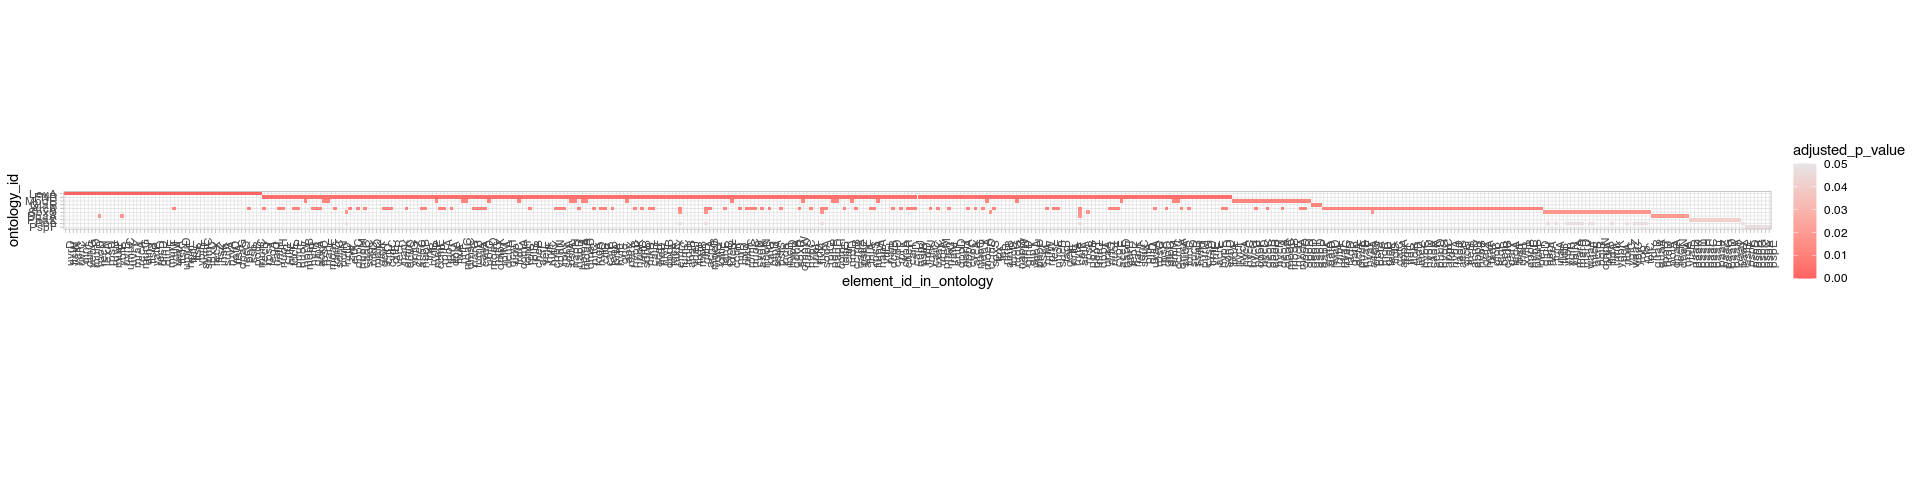
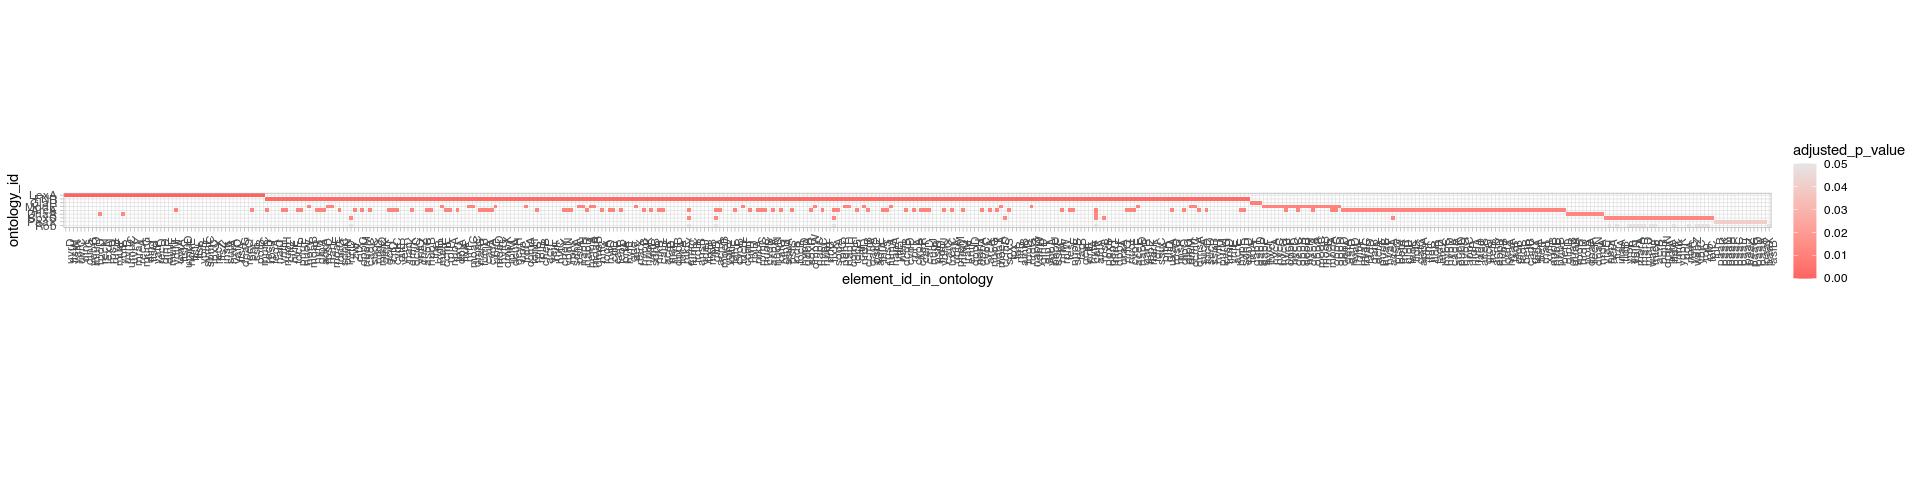
README update

Changed region(s): [[0.0, 0.375, 0.9375, 0.5938]]

diff --git a/README.md b/README.md
@@ -456,14 +456,14 @@ ora_results %>%
 |:------------|:--------------|-------------------------------:|----------------------------------:|----------:|----------:|
 | FNR         | FNR           |                             26 |                               259 | 0.0000003 | 0.0000000 |
 | LexA        | LexA          |                             14 |                                53 | 0.0000000 | 0.0000000 |
-| SoxS        | SoxS          |                              7 |                                37 | 0.0001615 | 0.0029333 |
-| Rob         | Rob           |                              5 |                                21 | 0.0004717 | 0.0048000 |
-| DnaA        | DnaA          |                              4 |                                13 | 0.0006281 | 0.0049167 |
-| FadR        | FadR          |                              5 |                                20 | 0.0003692 | 0.0051000 |
-| NsrR        | NsrR          |                              8 |                                64 | 0.0010478 | 0.0068429 |
-| ArcA        | ArcA          |                             12 |                               148 | 0.0032001 | 0.0202250 |
-| IHF         | IHF           |                             14 |                               205 | 0.0070758 | 0.0452500 |
-| MarA        | MarA          |                              5 |                                37 | 0.0066068 | 0.0477444 |
+| SoxS        | SoxS          |                              7 |                                37 | 0.0001615 | 0.0025667 |
+| DnaA        | DnaA          |                              4 |                                13 | 0.0006281 | 0.0048167 |
+| Rob         | Rob           |                              5 |                                21 | 0.0004717 | 0.0049400 |
+| FadR        | FadR          |                              5 |                                20 | 0.0003692 | 0.0052000 |
+| NsrR        | NsrR          |                              8 |                                64 | 0.0010478 | 0.0068857 |
+| ArcA        | ArcA          |                             12 |                               148 | 0.0032001 | 0.0203875 |
+| IHF         | IHF           |                             14 |                               205 | 0.0070758 | 0.0449400 |
+| MarA        | MarA          |                              5 |                                37 | 0.0066068 | 0.0473000 |
 
 #### Visualizing the ORA Result
 
@@ -661,7 +661,7 @@ gsea_results %>%
   filter(adjusted_p_value < 0.05) %>% 
   # the number of such rows
   nrow()
-#> [1] 10
+#> [1] 9
 ```
 
 And inspect the significant results:
@@ -674,18 +674,17 @@ gsea_results %>%
   filter(adjusted_p_value < 0.05)
 ```
 
-| ontology_id | ontology_name | nr_common_genes_ontology_set | nr_common_genes_ontology_background |   p_value | adjusted_p_value |
-|:------------|:--------------|-----------------------------:|------------------------------------:|----------:|-----------------:|
-| LexA        | LexA          |                           53 |                                  61 | 0.0000000 |        0.0000055 |
-| FNR         | FNR           |                          259 |                                 302 | 0.0000570 |        0.0043580 |
-| ArcA        | ArcA          |                          148 |                                 180 | 0.0003714 |        0.0113645 |
-| GlaR        | GlaR          |                            3 |                                   5 | 0.0002803 |        0.0113645 |
-| ModE        | ModE          |                           45 |                                  46 | 0.0003213 |        0.0113645 |
-| SoxS        | SoxS          |                           37 |                                  44 | 0.0006915 |        0.0176331 |
-| DnaA        | DnaA          |                           13 |                                  14 | 0.0008655 |        0.0189176 |
-| PaaX        | PaaX          |                           14 |                                  14 | 0.0021644 |        0.0413943 |
-| PspF        | PspF          |                            7 |                                   7 | 0.0030893 |        0.0472670 |
-| Rob         | Rob           |                           21 |                                  26 | 0.0028304 |        0.0472670 |
+| ontology_id | ontology_name | nr_common_elements_ontology_tested |   p_value | adjusted_p_value |
+|:------------|:--------------|-----------------------------------:|----------:|-----------------:|
+| LexA        | LexA          |                                 53 | 0.0000000 |        0.0000033 |
+| FNR         | FNR           |                                259 | 0.0000396 |        0.0030270 |
+| GlaR        | GlaR          |                                  3 | 0.0001825 |        0.0093083 |
+| ArcA        | ArcA          |                                148 | 0.0003714 |        0.0113645 |
+| ModE        | ModE          |                                 45 | 0.0003349 |        0.0113645 |
+| DnaA        | DnaA          |                                 13 | 0.0004808 |        0.0122615 |
+| SoxS        | SoxS          |                                 37 | 0.0005633 |        0.0123115 |
+| PaaX        | PaaX          |                                 14 | 0.0021274 |        0.0406867 |
+| Rob         | Rob           |                                 21 | 0.0028674 |        0.0487451 |
 
 #### Visualizing the GSEA Results
 
